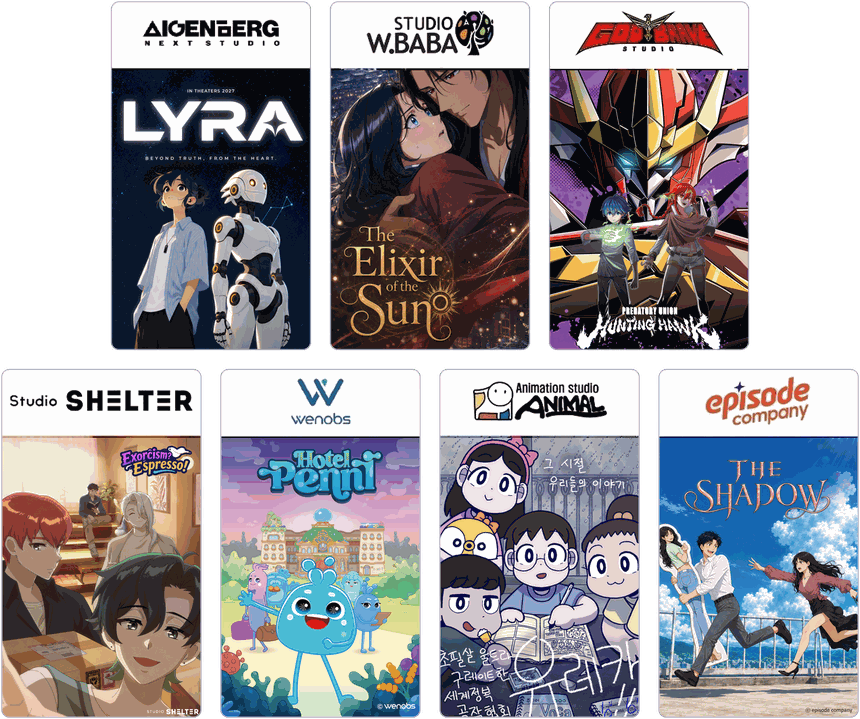
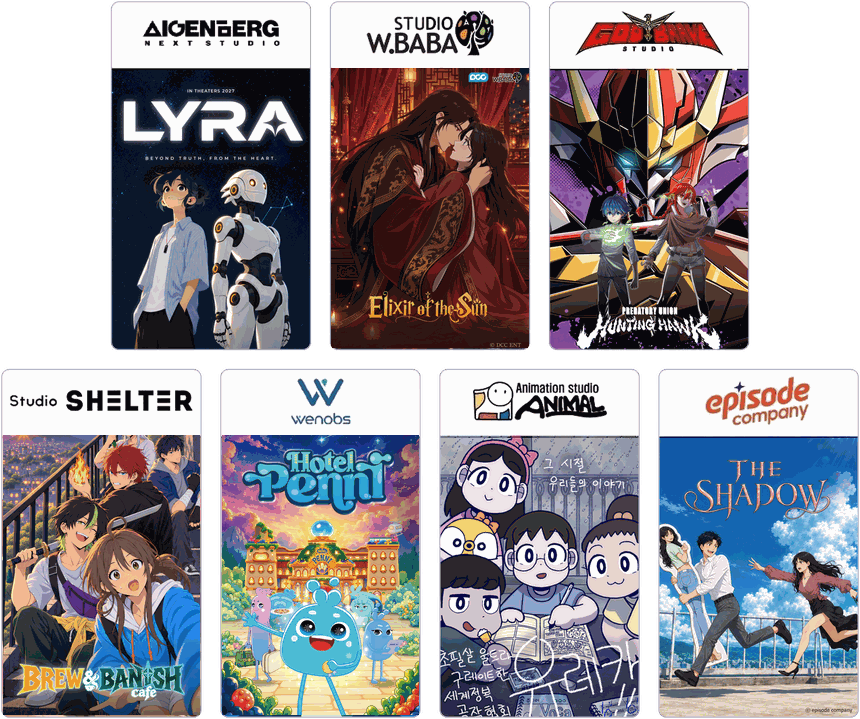
Update issue01 lineup posters, genres, and Issue 02 date
- Replace W.Baba, Studio Shelter, WeNobs posters with current versions
- Update genres (LYRA, Elixir of the Sun, Brew & Banish cafe, The Shadow)
- Rename Espresso? Exorcism! to Brew & Banish cafe
- Change Issue 02 date and next-issue teaser to Oct 15

Claude-Session: https://claude.ai/code/session_01JkdmZzG7rLQfBMBrvwg7rv

Changed region(s): [[0.0, 0.5814, 0.514, 1.0], [0.3628, 0.0918, 0.6349, 0.4896]]

diff --git a/issue01.html b/issue01.html
@@ -6,6 +6,7 @@
 <meta name="supported-color-schemes" content="light dark">
 <meta name="viewport" content="width=device-width, initial-scale=1, viewport-fit=cover">
 <title>7 Korean studios are coming to Toronto</title>
+<style>@media (max-width:480px){.nw{white-space:normal !important;}}</style>
 </head>
 <body style="margin:0;padding:0;" bgcolor="#FFFFFF">
 <div style="display:none;max-height:0;overflow:hidden;font-size:1px;line-height:1px;color:#FFFFFF;">Nov 3–4 · Toronto · Meet 7 Korean animation studios</div>
@@ -57,17 +58,17 @@
 <p style="margin:0 0 4px 0;font-size:20px;font-weight:bold;color:#5B21B6;">Showcase Lineup</p>
 <p style="margin:0 0 14px 0;font-size:14px;line-height:22px;color:#555555;">Each studio will be featured in its own interview issue on the dates&nbsp;below.</p>
 </td></tr>
-<tr><td align="center" style="padding:0 20px;text-align:center;"><center><img src="https://raw.githubusercontent.com/startpak841/kani-edm/main/edm01_posters.png" width="430" alt="Seven project posters: LYRA, Elixir of the Sun, HUNTING HAWK: Predatory Union, Espresso? Exorcism!, Hotel Penni, EURECA, The Shadow" style="display:block;width:430px;max-width:100%;height:auto;border:0;margin:0 auto;"></center></td></tr>
+<tr><td align="center" style="padding:0 20px;text-align:center;"><center><img src="https://raw.githubusercontent.com/startpak841/kani-edm/main/edm01_posters.png" width="430" alt="Seven project posters: LYRA, Elixir of the Sun, HUNTING HAWK: Predatory Union, Brew &amp; Banish cafe, Hotel Penni, EURECA, The Shadow" style="display:block;width:430px;max-width:100%;height:auto;border:0;margin:0 auto;"></center></td></tr>
 <tr><td style="padding:16px 40px 0 40px;">
 <table role="presentation" width="100%" cellpadding="0" cellspacing="0" border="0" style="font-family:Arial,Helvetica,sans-serif;line-height:17px;">
 <tr><td width="50%" style="width:50%;padding:0 8px 6px 0;border-bottom:2px solid #5B21B6;font-size:12px;font-weight:bold;color:#5B21B6;">Project / Studio</td><td width="34%" style="width:34%;padding:0 8px 6px 0;border-bottom:2px solid #5B21B6;font-size:12px;font-weight:bold;color:#5B21B6;">Genre / Format</td><td width="16%" align="center" style="width:16%;text-align:center;padding:0 0 6px 0;border-bottom:2px solid #5B21B6;font-size:12px;font-weight:bold;color:#5B21B6;">Interview</td></tr>
-<tr><td style="padding:5px 8px 5px 0;line-height:16px;border-bottom:1px solid #E5E7EB;vertical-align:top;"><span style="font-size:14px;line-height:16px;font-weight:bold;color:#111111;">LYRA</span><br><span style="font-size:12px;line-height:16px;color:#6B7280;">AIGENBERG</span></td><td style="padding:5px 8px 5px 0;line-height:16px;border-bottom:1px solid #E5E7EB;vertical-align:top;"><span style="font-size:13px;line-height:16px;color:#333333;white-space:nowrap;">Sci-Fi · Music · Action</span><br><span style="font-size:12px;line-height:16px;color:#6B7280;">Feature film</span></td><td align="center" style="text-align:center;padding:5px 0 5px 0;line-height:16px;border-bottom:1px solid #E5E7EB;vertical-align:top;white-space:nowrap;font-size:13px;font-weight:bold;color:#5B21B6;">Issue 02<br><span style="font-size:12px;line-height:16px;font-weight:normal;color:#6B7280;">Oct 12</span></td></tr>
-<tr><td style="padding:5px 8px 5px 0;line-height:16px;border-bottom:1px solid #E5E7EB;vertical-align:top;"><span style="font-size:14px;line-height:16px;font-weight:bold;color:#111111;">Elixir of the Sun</span><br><span style="font-size:12px;line-height:16px;color:#6B7280;">Studio W.Baba</span></td><td style="padding:5px 8px 5px 0;line-height:16px;border-bottom:1px solid #E5E7EB;vertical-align:top;"><span style="font-size:13px;line-height:16px;color:#333333;">Drama</span><br><span style="font-size:12px;line-height:16px;color:#6B7280;">TV series</span></td><td align="center" style="text-align:center;padding:5px 0 5px 0;line-height:16px;border-bottom:1px solid #E5E7EB;vertical-align:top;white-space:nowrap;font-size:13px;font-weight:bold;color:#5B21B6;">Issue 03<br><span style="font-size:12px;line-height:16px;font-weight:normal;color:#6B7280;">Oct 14</span></td></tr>
+<tr><td style="padding:5px 8px 5px 0;line-height:16px;border-bottom:1px solid #E5E7EB;vertical-align:top;"><span style="font-size:14px;line-height:16px;font-weight:bold;color:#111111;">LYRA</span><br><span style="font-size:12px;line-height:16px;color:#6B7280;">AIGENBERG</span></td><td style="padding:5px 8px 5px 0;line-height:16px;border-bottom:1px solid #E5E7EB;vertical-align:top;"><span class="nw" style="font-size:13px;line-height:16px;color:#333333;white-space:nowrap;">Sci-Fi · Music · Action / Adventure</span><br><span style="font-size:12px;line-height:16px;color:#6B7280;">Feature film</span></td><td align="center" style="text-align:center;padding:5px 0 5px 0;line-height:16px;border-bottom:1px solid #E5E7EB;vertical-align:top;white-space:nowrap;font-size:13px;font-weight:bold;color:#5B21B6;">Issue 02<br><span style="font-size:12px;line-height:16px;font-weight:normal;color:#6B7280;">Oct 15</span></td></tr>
+<tr><td style="padding:5px 8px 5px 0;line-height:16px;border-bottom:1px solid #E5E7EB;vertical-align:top;"><span style="font-size:14px;line-height:16px;font-weight:bold;color:#111111;">Elixir of the Sun</span><br><span style="font-size:12px;line-height:16px;color:#6B7280;">Studio W.Baba</span></td><td style="padding:5px 8px 5px 0;line-height:16px;border-bottom:1px solid #E5E7EB;vertical-align:top;"><span style="font-size:13px;line-height:16px;color:#333333;">Romance Fantasy</span><br><span style="font-size:12px;line-height:16px;color:#6B7280;">TV series</span></td><td align="center" style="text-align:center;padding:5px 0 5px 0;line-height:16px;border-bottom:1px solid #E5E7EB;vertical-align:top;white-space:nowrap;font-size:13px;font-weight:bold;color:#5B21B6;">Issue 03<br><span style="font-size:12px;line-height:16px;font-weight:normal;color:#6B7280;">Oct 14</span></td></tr>
 <tr><td style="padding:5px 8px 5px 0;line-height:16px;border-bottom:1px solid #E5E7EB;vertical-align:top;"><span style="font-size:14px;line-height:16px;font-weight:bold;color:#111111;">HUNTING HAWK: Predatory Union</span><br><span style="font-size:12px;line-height:16px;color:#6B7280;">GODBRAVE</span></td><td style="padding:5px 8px 5px 0;line-height:16px;border-bottom:1px solid #E5E7EB;vertical-align:top;"><span style="font-size:13px;line-height:16px;color:#333333;white-space:nowrap;">Action · Adventure</span><br><span style="font-size:12px;line-height:16px;color:#6B7280;">Feature film</span></td><td align="center" style="text-align:center;padding:5px 0 5px 0;line-height:16px;border-bottom:1px solid #E5E7EB;vertical-align:top;white-space:nowrap;font-size:13px;font-weight:bold;color:#5B21B6;">Issue 04<br><span style="font-size:12px;line-height:16px;font-weight:normal;color:#6B7280;">Oct 19</span></td></tr>
-<tr><td style="padding:5px 8px 5px 0;line-height:16px;border-bottom:1px solid #E5E7EB;vertical-align:top;"><span style="font-size:14px;line-height:16px;font-weight:bold;color:#111111;">Espresso? Exorcism!</span><br><span style="font-size:12px;line-height:16px;color:#6B7280;">Studio Shelter</span></td><td style="padding:5px 8px 5px 0;line-height:16px;border-bottom:1px solid #E5E7EB;vertical-align:top;"><span style="font-size:13px;line-height:16px;color:#333333;white-space:nowrap;">Action · Adventure</span><br><span style="font-size:12px;line-height:16px;color:#6B7280;">TV series</span></td><td align="center" style="text-align:center;padding:5px 0 5px 0;line-height:16px;border-bottom:1px solid #E5E7EB;vertical-align:top;white-space:nowrap;font-size:13px;font-weight:bold;color:#5B21B6;">Issue 05<br><span style="font-size:12px;line-height:16px;font-weight:normal;color:#6B7280;">Oct 21</span></td></tr>
+<tr><td style="padding:5px 8px 5px 0;line-height:16px;border-bottom:1px solid #E5E7EB;vertical-align:top;"><span style="font-size:14px;line-height:16px;font-weight:bold;color:#111111;">Brew &amp; Banish cafe</span><br><span style="font-size:12px;line-height:16px;color:#6B7280;">Studio Shelter</span></td><td style="padding:5px 8px 5px 0;line-height:16px;border-bottom:1px solid #E5E7EB;vertical-align:top;"><span style="font-size:13px;line-height:16px;color:#333333;">Supernatural Action Comedy</span><br><span style="font-size:12px;line-height:16px;color:#6B7280;">TV series</span></td><td align="center" style="text-align:center;padding:5px 0 5px 0;line-height:16px;border-bottom:1px solid #E5E7EB;vertical-align:top;white-space:nowrap;font-size:13px;font-weight:bold;color:#5B21B6;">Issue 05<br><span style="font-size:12px;line-height:16px;font-weight:normal;color:#6B7280;">Oct 21</span></td></tr>
 <tr><td style="padding:5px 8px 5px 0;line-height:16px;border-bottom:1px solid #E5E7EB;vertical-align:top;"><span style="font-size:14px;line-height:16px;font-weight:bold;color:#111111;">Hotel Penni</span><br><span style="font-size:12px;line-height:16px;color:#6B7280;">WeNobs</span></td><td style="padding:5px 8px 5px 0;line-height:16px;border-bottom:1px solid #E5E7EB;vertical-align:top;"><span style="font-size:13px;line-height:16px;color:#333333;">Edutainment</span><br><span style="font-size:12px;line-height:16px;color:#6B7280;">TV series</span></td><td align="center" style="text-align:center;padding:5px 0 5px 0;line-height:16px;border-bottom:1px solid #E5E7EB;vertical-align:top;white-space:nowrap;font-size:13px;font-weight:bold;color:#5B21B6;">Issue 06<br><span style="font-size:12px;line-height:16px;font-weight:normal;color:#6B7280;">Oct 26</span></td></tr>
 <tr><td style="padding:5px 8px 5px 0;line-height:16px;border-bottom:1px solid #E5E7EB;vertical-align:top;"><span style="font-size:14px;line-height:16px;font-weight:bold;color:#111111;">EURECA</span><br><span style="font-size:12px;line-height:16px;color:#6B7280;">Studio Animal</span></td><td style="padding:5px 8px 5px 0;line-height:16px;border-bottom:1px solid #E5E7EB;vertical-align:top;"><span style="font-size:13px;line-height:16px;color:#333333;">Drama</span><br><span style="font-size:12px;line-height:16px;color:#6B7280;">Feature film</span></td><td align="center" style="text-align:center;padding:5px 0 5px 0;line-height:16px;border-bottom:1px solid #E5E7EB;vertical-align:top;white-space:nowrap;font-size:13px;font-weight:bold;color:#5B21B6;">Issue 07<br><span style="font-size:12px;line-height:16px;font-weight:normal;color:#6B7280;">Oct 28</span></td></tr>
-<tr><td style="padding:5px 8px 5px 0;line-height:16px;border-bottom:1px solid #E5E7EB;vertical-align:top;"><span style="font-size:14px;line-height:16px;font-weight:bold;color:#111111;">The Shadow</span><br><span style="font-size:12px;line-height:16px;color:#6B7280;">Episode Company</span></td><td style="padding:5px 8px 5px 0;line-height:16px;border-bottom:1px solid #E5E7EB;vertical-align:top;"><span style="font-size:13px;line-height:16px;color:#333333;">Fantasy</span><br><span style="font-size:12px;line-height:16px;color:#6B7280;">Feature film</span></td><td align="center" style="text-align:center;padding:5px 0 5px 0;line-height:16px;border-bottom:1px solid #E5E7EB;vertical-align:top;white-space:nowrap;font-size:13px;font-weight:bold;color:#5B21B6;">Issue 08<br><span style="font-size:12px;line-height:16px;font-weight:normal;color:#6B7280;">Oct 29</span></td></tr>
+<tr><td style="padding:5px 8px 5px 0;line-height:16px;border-bottom:1px solid #E5E7EB;vertical-align:top;"><span style="font-size:14px;line-height:16px;font-weight:bold;color:#111111;">The Shadow</span><br><span style="font-size:12px;line-height:16px;color:#6B7280;">Episode Company</span></td><td style="padding:5px 8px 5px 0;line-height:16px;border-bottom:1px solid #E5E7EB;vertical-align:top;"><span style="font-size:13px;line-height:16px;color:#333333;">Fantasy · K-pop Musical Revenge Story</span><br><span style="font-size:12px;line-height:16px;color:#6B7280;">Feature film</span></td><td align="center" style="text-align:center;padding:5px 0 5px 0;line-height:16px;border-bottom:1px solid #E5E7EB;vertical-align:top;white-space:nowrap;font-size:13px;font-weight:bold;color:#5B21B6;">Issue 08<br><span style="font-size:12px;line-height:16px;font-weight:normal;color:#6B7280;">Oct 29</span></td></tr>
 </table>
 </td></tr>
 
@@ -93,7 +94,7 @@ Looking for new IP or a co-production partner?<br><a href="https://docs.google.c
 
 <!-- 11. Next issue -->
 <tr><td style="padding:28px 40px;">
-<p style="margin:0 0 6px 0;font-size:12px;font-weight:bold;color:#5B21B6;">NEXT ISSUE · OCT 12</p>
+<p style="margin:0 0 6px 0;font-size:12px;font-weight:bold;color:#5B21B6;">NEXT ISSUE · OCT 15</p>
 <p style="margin:0 0 4px 0;font-size:17px;line-height:24px;font-weight:bold;color:#111111;">Can AI and humans make “real music”?</p>
 <p style="margin:0;font-size:15px;line-height:23px;color:#444444;">AIGENBERG shares how an AI-native studio is building LYRA,<br>a sci-fi music action&nbsp;feature.</p>
 </td></tr>
